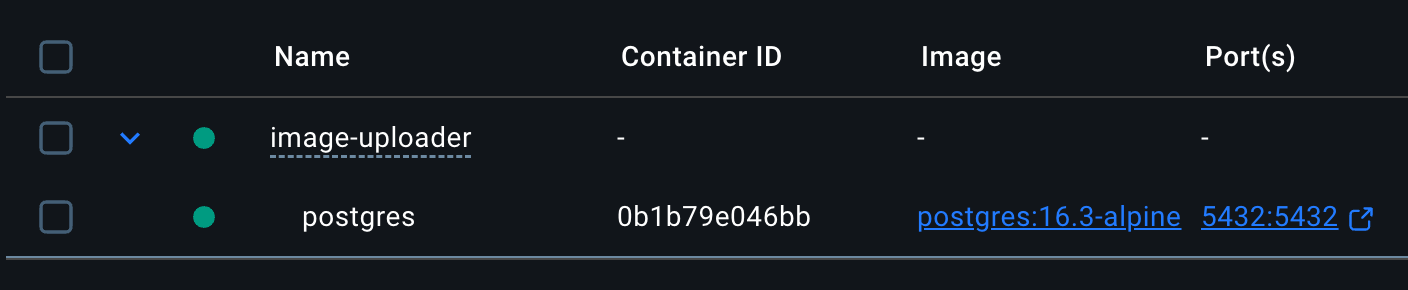
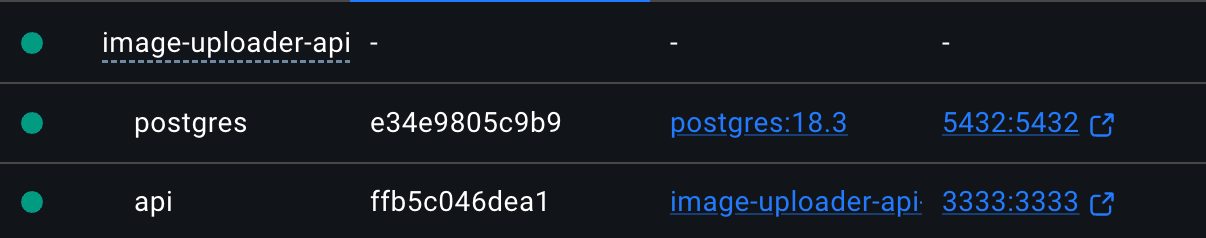
docs: update readme with docker compose instructions

diff --git a/src/app/controllers/upload-image.ts b/src/app/controllers/upload-image.ts
@@ -3,7 +3,7 @@ import type { FastifyPluginAsyncZod } from 'fastify-type-provider-zod';
 import { z } from 'zod';
 import { uploadImageService } from '../services/upload-image';
 
-const MAXIMUM_FILE_SIZE_IN_BYTES = 1024 * 1024 * 4
+const MAXIMUM_FILE_SIZE_IN_BYTES = 1024 * 1024 * 4;
 
 export const uploadImageController: FastifyPluginAsyncZod = async (server) => {
   server.post(

diff --git a/README.md b/README.md
@@ -44,6 +44,9 @@
       <a href="#local-setup-instructions">Local Setup Instructions</a>
     </li>
     <li>
+      <a href="#production-image-check">Production Image Check</a>
+    </li>
+    <li>
       <a href="#api-reference">API Reference</a>
     </li>
     <li>
@@ -100,32 +103,17 @@ If you are also running the frontend widget, this API is the service responsible
    pnpm install
    ```
 
-2. **Environment Variables**: Create `.env` and `.env.test` files to store your environment variables. You can copy the example file and then edit it:
+2. **Environment Variables**: Create a `.env` file to store your environment variables. You can copy the example file and then edit it:
 
    ```bash
    cp .env.example .env
-   cp .env.test.example .env.test
-   ```
-
-   Required environment variables:
-
-   ```env
-   NODE_ENV="development"
-   PORT="3333"
-   DB_URL="postgresql://postgres:postgres@localhost:5432/image_uploader"
-   CLOUDFLARE_ACCOUNT_ID=""
-   CLOUDFLARE_ACCESS_KEY_ID=""
-   CLOUDFLARE_SECRET_ACCESS_KEY=""
-   CLOUDFLARE_BUCKET=""
-   CLOUDFLARE_PUBLIC_URL=""
    ```
 
   > [!IMPORTANT]
-  > - Use `localhost` in `DB_URL` when running the API from your machine.
-  > - Use `postgres` in `DB_URL` when running the API from Docker networking.
   > - The API needs valid Cloudflare R2 credentials to upload files and export reports.
+  > - Keep `DB_URL` in `.env` pointing to `localhost` for local Node commands like `pnpm run dev` and `pnpm run test`.
 
-3. **Start PostgreSQL with Docker Compose**: Spin up a local PostgreSQL instance using Docker.
+3. **Start the development stack with Docker Compose**: Spin up PostgreSQL and the API with hot reload.
 
    ```bash
    docker compose up -d
@@ -136,30 +124,51 @@ If you are also running the frontend widget, this API is the service responsible
   </div>
 
   > [!Note]
-  > This project includes a PostgreSQL container configured for the `image_uploader` and `image_uploader_test` databases.
+  > This project includes a PostgreSQL container configured for the `image_uploader` and `image_uploader_test` databases, and the app container runs migrations automatically before starting.
 
-4. **Run database migrations**: Apply all database schema migrations.
-
-   ```bash
-   pnpm db:migrate
-   ```
-
-5. **Start the development server**: Launch the API in development mode with hot-reloading enabled.
+4. **Start the development server locally (optional)**: If you want to run the API directly on your machine instead, keep Docker Compose running for PostgreSQL and use:
 
    ```bash
-   pnpm dev
+   pnpm run dev
    ```
 
   <div align="center">
     <img src="./docs/4. Terminal.png" alt="Docker compose" style="width: 60%; border-radius: 5px;"/>
   </div>
 
-6. **Open the API docs**: Access the interactive API documentation (Swagger) in your browser to explore available endpoints.
+5. **Open the API docs**: Access the interactive API documentation (Swagger) in your browser to explore available endpoints.
 
    ```text
    http://localhost:3333/docs
 
-7. **Frontend Interface (Optional)**: If you want to experience the application with a frontend, follow the [Application Local Setup Instructions](https://github.com/heldercostaa/image-uploader#local-setup-instructions) to have it running. This step is optional as the API can be entirely called by endpoints.
+6. **Frontend Interface (Optional)**: If you want to experience the application with a frontend, follow the [Application Local Setup Instructions](https://github.com/heldercostaa/image-uploader#local-setup-instructions) to have it running. This step is optional as the API can be entirely called by endpoints.
+
+## Production Image Check
+
+To validate the production `Dockerfile` path end-to-end, use the dedicated deploy compose file:
+
+```bash
+docker compose up -f docker-compose.deploy.yml -d --build
+```
+
+This flow:
+
+- starts PostgreSQL
+- runs Drizzle migrations in a one-shot container
+- builds the final distroless app image from `Dockerfile`
+- starts the production container on `http://localhost:3333`
+
+To run it in detached mode:
+
+```bash
+docker compose -f docker-compose.deploy.yml up -d --build
+```
+
+To stop and remove its containers and volumes:
+
+```bash
+docker compose -f docker-compose.deploy.yml down -v
+```
 
 ## API Reference
 
